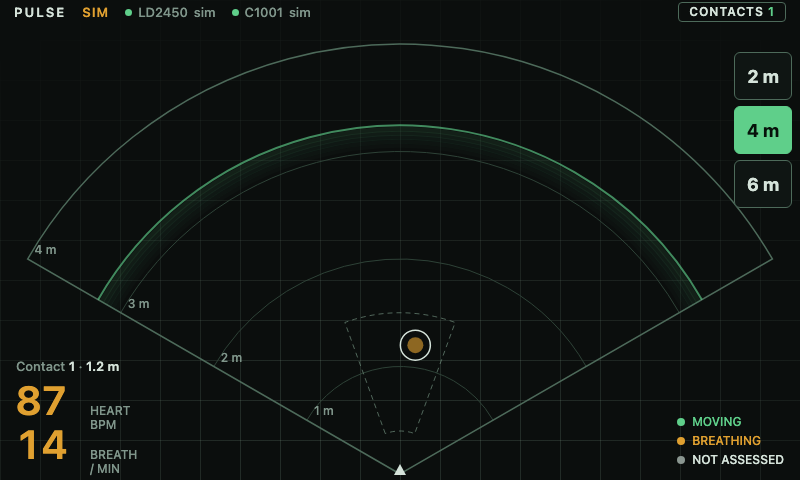
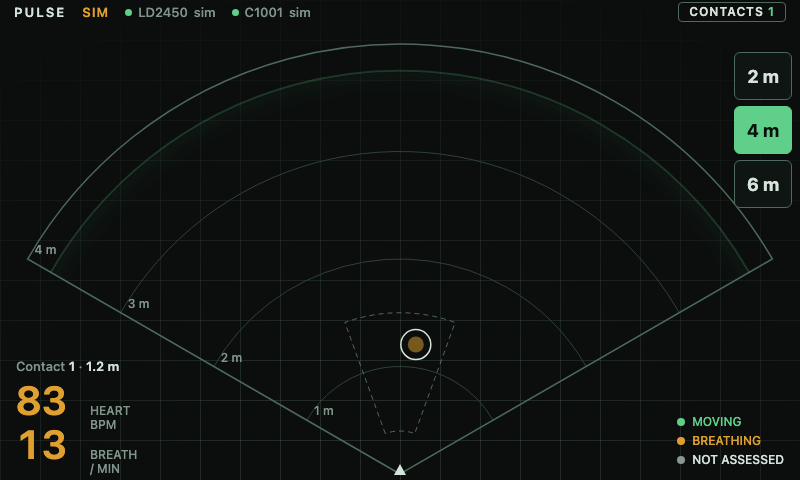
Radar: dots live again; the sonar ring only brightens them
Dots follow the contact every frame like before. The outbound ring is
kept and sets brightness: full when it passes, fading to a floor until
the next ring. Drops the frozen echo position, the halo and the
one-ping wait in ui_t4_shots.

diff --git a/ui/radar.js b/ui/radar.js
@@ -15,13 +15,12 @@ const RADIUS = 430;                 // px from the apex to the outer arc
 const FOV_DEG = 60;                 // LD2450 half angle
 const DEG = Math.PI / 180;
 
-const PING_PERIOD_MS = 2000;        // one sonar ping every 2 s
-const PING_TRAVEL_MS = 1400;        // the ring goes apex -> outer arc, then quiet until the next ping
-const ECHO_FADE_MS = 1800;          // an echo goes bright -> floor just before the next ping refreshes it
-const ECHO_FLOOR = 0.15;            // echoes never fade below this while the track is alive
-const ECHO_FLOOR_LOCKED = 0.35;
-const BLOOM_MS = 450;               // halo that grows out of a dot when the ring hits it
-const BLOOM_R = 14;
+const PING_PERIOD_MS = 2000;        // one sonar ring every 2 s
+const PING_TRAVEL_MS = 1400;        // the ring goes apex -> outer arc, then quiet until the next one
+const LIT_FADE_MS = 1800;           // a dot the ring passed goes bright -> floor before the next ring
+const LIT_FLOOR = 0.15;             // dots never fade below this while the track is alive
+const LIT_FLOOR_LOCKED = 0.35;
+const LEAVE_MS = 300;               // fade when a track disappears from the snapshot
 const INTERP_MS = 110;              // a little over one 10 Hz tick, so motion never stalls
 const DOT_R = 8;
 const LOCK_R = 15;
@@ -84,7 +83,7 @@ function makeTrack(id) {
     x: 0, y: 0,                              // current render position (mm)
     tri: 2, locked: false,
     lastSeen: 0, seenAt: 0,
-    echo: false, ex: 0, ey: 0, echoAt: 0, eTri: 2, eHeld: false,   // the last return the ping ring captured
+    litAt: 0,                                // when the ring last passed it (dot is brightest then)
   };
 }
 const tracks = TARGET_IDS.map(makeTrack);
@@ -203,7 +202,7 @@ function applySnapshot(s, now) {
     seenFlags[t.id - 1] = 1;
     if (!tr.active) {
       tr.active = true;
-      tr.echo = false;
+      tr.litAt = now;               // a new contact starts bright
       tr.fx = tr.tx = tr.x = t.x_mm;
       tr.fy = tr.ty = tr.y = t.y_mm;
     } else {
@@ -335,22 +334,13 @@ let fpsSince = 0;
 
 let selId = 0;                      // set once per frame from the card
 let pingPhase = 0;                  // ms into the current ping
-let ringPrev = 0;                   // ring radius (px) last frame; echoes land when the ring passes a track
+let ringPrev = 0;                   // ring radius (px) last frame; a dot lights up when the ring passes it
 
-// live position: glide from the previous render position to the new snapshot (tracked every frame, drawn only on echo)
+// position: glide from the previous render position to the new snapshot
 function updateTrack(tr, ts) {
   const u = Math.min((ts - tr.t0) / INTERP_MS, 1);
   tr.x = tr.fx + (tr.tx - tr.fx) * u;
   tr.y = tr.fy + (tr.ty - tr.fy) * u;
-}
-
-function captureEcho(tr, ts) {
-  tr.echo = true;
-  tr.ex = tr.x;
-  tr.ey = tr.y;
-  tr.echoAt = ts;
-  tr.eTri = tr.tri;
-  tr.eHeld = tr.lastSeen > 0;
 }
 
 function drawRing(r) {
@@ -368,46 +358,36 @@ function drawRing(r) {
 }
 
 function drawTrack(tr, ts) {
-  const age = ts - tr.echoAt;
-  if (tr.leaving) {                 // no more echoes: the last one fades out, then the track is gone
-    if (!tr.echo || ts - Math.max(tr.echoAt, tr.leaveAt) > ECHO_FADE_MS) {
+  // brightness: full when the ring passes, fading to a floor until the next ring
+  let alpha = Math.max(1 - (ts - tr.litAt) / LIT_FADE_MS, tr.locked ? LIT_FLOOR_LOCKED : LIT_FLOOR);
+  if (tr.leaving) {
+    const k = 1 - (ts - tr.leaveAt) / LEAVE_MS;
+    if (k <= 0) {
       tr.active = false;
       tr.leaving = false;
       tr.locked = false;
-      tr.echo = false;
       return;
     }
+    alpha *= k;
   }
-  if (!tr.echo) return;
-  let alpha = 1 - age / ECHO_FADE_MS;
-  if (!tr.leaving) alpha = Math.max(alpha, tr.locked ? ECHO_FLOOR_LOCKED : ECHO_FLOOR);
-  if (alpha <= 0) alpha = 0;
 
-  const sx = APEX_X + tr.ex * pxPerMm;
-  const sy = APEX_Y - tr.ey * pxPerMm;
-  const color = TRIAGE_COLORS[tr.eTri];
+  const sx = APEX_X + tr.x * pxPerMm;
+  const sy = APEX_Y - tr.y * pxPerMm;
+  const color = TRIAGE_COLORS[tr.tri];
 
   ctx.globalAlpha = alpha;
   ctx.fillStyle = color;
   ctx.strokeStyle = color;
   ctx.beginPath();
   ctx.arc(sx, sy, DOT_R, 0, Math.PI * 2);
-  if (tr.eHeld) {                   // held: hollow ring
+  if (tr.lastSeen > 0) {            // held: hollow ring
     ctx.lineWidth = 2;
     ctx.stroke();
   } else {
     ctx.fill();
   }
-  if (age < BLOOM_MS) {             // the ping just hit it
-    const b = age / BLOOM_MS;
-    ctx.globalAlpha = 0.8 * (1 - b);
-    ctx.lineWidth = 2;
-    ctx.beginPath();
-    ctx.arc(sx, sy, DOT_R + BLOOM_R * b, 0, Math.PI * 2);
-    ctx.stroke();
-  }
 
-  // overlays stay solid so the operator never loses the locked / selected contact while its echo is dim
+  // overlays stay solid so the operator never loses the locked / selected contact while its dot is dim
   ctx.globalAlpha = tr.leaving ? alpha : 1;
   if (tr.locked) {                  // the one the vitals belong to
     ctx.strokeStyle = C.text;
@@ -444,7 +424,7 @@ function frame(ts) {
   ctx.drawImage(gridCanvas, 0, 0, W, H);
   selId = selectedId();
 
-  // sonar ping: a ring grows out from the device; a track's echo updates when the ring passes it
+  // sonar ring: grows out from the device; a dot lights up when the ring passes it
   const phase = ts % PING_PERIOD_MS;
   if (phase < pingPhase) ringPrev = 0;                  // a new ping started
   pingPhase = phase;
@@ -456,7 +436,7 @@ function frame(ts) {
     updateTrack(tr, ts);
     if (tr.leaving || ring < 0) continue;
     const d = Math.hypot(tr.x, tr.y) * pxPerMm;
-    if (d > ringPrev && d <= ring) captureEcho(tr, ts);
+    if (d > ringPrev && d <= ring) tr.litAt = ts;
   }
   if (ring >= 0) {
     ringPrev = ring;
@@ -495,12 +475,10 @@ canvas.addEventListener("pointerdown", (ev) => {
   let bestD = HIT_R * HIT_R;
   for (let i = 0; i < tracks.length; i++) {
     const tr = tracks[i];
-    if (!tr.active || tr.leaving || !tr.echo) continue;
-    const ex = APEX_X + tr.ex * pxPerMm - x;          // the echo on screen, or where the contact is now
-    const ey = APEX_Y - tr.ey * pxPerMm - y;
-    const lx = APEX_X + tr.x * pxPerMm - x;
-    const ly = APEX_Y - tr.y * pxPerMm - y;
-    const d = Math.min(ex * ex + ey * ey, lx * lx + ly * ly);
+    if (!tr.active || tr.leaving) continue;
+    const dx = APEX_X + tr.x * pxPerMm - x;
+    const dy = APEX_Y - tr.y * pxPerMm - y;
+    const d = dx * dx + dy * dy;
     if (d <= bestD) {
       best = tr;
       bestD = d;
@@ -541,7 +519,7 @@ if (new URLSearchParams(location.search).get("fps") === "1") {
   stage.appendChild(fpsEl);
 }
 
-initCard({ dotX: (id) => { const tr = tracks[id - 1]; return tr && tr.active && tr.echo ? APEX_X + tr.ex * pxPerMm : null; } });
+initCard({ dotX: (id) => { const tr = tracks[id - 1]; return tr && tr.active ? APEX_X + tr.x * pxPerMm : null; } });
 initDrawer();
 initControls({ send, onReset: clearSelection });
 

diff --git a/tools/ui_t4_shots.py b/tools/ui_t4_shots.py
@@ -61,10 +61,6 @@ def main() -> int:
         s = wait_for(lambda s: any(pred(t) for t in s["targets"]), timeout, what)
         if not s:
             return None
-        page.wait_for_timeout(2100)                 # one sonar ping, so the dot is on screen
-        s = wait_for(lambda s: any(pred(t) for t in s["targets"]), timeout, what)
-        if not s:
-            return None
         t = next(t for t in s["targets"] if pred(t))
         x, y = dot_xy(s, t)
         page.touchscreen.tap(x, y)

diff --git a/docs/STATUS.md b/docs/STATUS.md
@@ -314,12 +314,10 @@ into docs/hardware.md too.
   checked on the screen yet, and `~/pulse/.env` still has `C1001_PORT=` blank and `PULSE_SOURCE=sim`. (6) breath
   ramps for ~25 s after a lock (5, 8, 11 ... 22): fusion shows those as real numbers; maybe hold "settling" until
   breath stops climbing. Ask before changing fusion.
-- Sonar ping radar (Sun morning, `ui/radar.js` only, post-gate polish): the side-to-side sweep line is gone. A ring
-  pulses out from the device every 2 s (1.4 s out, then quiet). A dot only updates when the ring passes it: it lands
-  bright with a short halo at the position the contact had at that moment, then fades to a 15% floor (35% if locked)
-  until the next ping. A new contact shows nothing until the ring reaches it; a contact that leaves just fades out.
-  Lock ring and selection brackets stay solid at the echo position. Taps hit either the echo or the contact's live
-  position. Knobs at the top of radar.js: `PING_PERIOD_MS`, `PING_TRAVEL_MS`, `ECHO_FADE_MS`, `ECHO_FLOOR`.
-  `tools/ui_t4_shots.py` now waits one ping before tapping a dot; all checks pass, screenshots refreshed, 61 fps
-  headless. Not yet seen on the 7" from 1 m: if the floor is too faint there, raise `ECHO_FLOOR`.
-  `tools/ui_screenshots.py` timed out on "a held target" (waits on the sim's snapshots, so not this change).
+- Sonar ring radar (Sun morning, `ui/radar.js` only, post-gate polish): the side-to-side sweep line is gone. A ring
+  pulses out from the device every 2 s (1.4 s out, then quiet). Dots stay live (same positions and motion as
+  before); the ring only sets their brightness: full when it passes, fading to a 15% floor (35% if locked) until the
+  next ring. New contacts start bright. Lock ring and selection brackets stay solid. Knobs at the top of radar.js:
+  `PING_PERIOD_MS`, `PING_TRAVEL_MS`, `LIT_FADE_MS`, `LIT_FLOOR`. (A first version also froze each dot's position
+  between rings like real sonar; dropped, dots lagged the person.) Touch checks pass, screenshots refreshed, 61 fps
+  headless. `tools/ui_screenshots.py` times out on "a held target" (waits on the sim's snapshots, not this change).

diff --git a/docs/PLAYBOOK.md b/docs/PLAYBOOK.md
@@ -67,7 +67,7 @@ Everything below works on a laptop with fake data.
 - **Server + sim mode:** FastAPI on :8000, WebSocket `/ws` at 10 Hz, `/api/snapshot`, `/debug` page. Sim scenarios
   `demo` (one sitter behind the wall + a walker) and `random`. Basic fusion (tracking, lock cone, triage, contacts).
   Data sources plug in through `pi/pulse/sources.py`; `live` was wired up in ARI-1, `replay` is still a stub.
-- **Radar UI:** flat dark 800x480 radar, sonar ping ring (dots refresh on ping and fade), dots by triage, vitals panel, NO SIGNAL overlay.
+- **Radar UI:** flat dark 800x480 radar, sonar ring (dots brighten as it passes, then fade), dots by triage, vitals panel, NO SIGNAL overlay.
 - **Interactions:** tap a dot for its card (range, bearing, status, vitals or "get within 1.5 m"), contacts drawer,
   2 / 4 / 6 m range buttons, hold the PULSE wordmark to reset.
 - 93 tests pass. Screenshots in `docs/screenshots/`.
